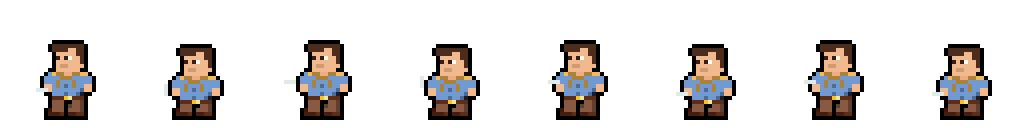
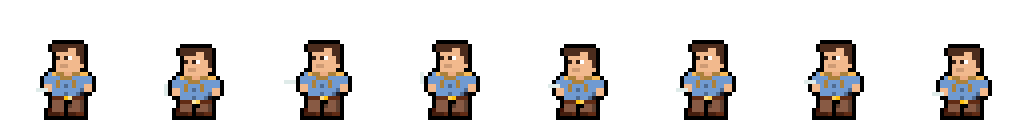
Mas Animaciones

diff --git a/src/ArenaCombate.h b/src/ArenaCombate.h
@@ -52,32 +52,3 @@ private:
 	ETSIDI::Sprite* fondo_arena = nullptr;
 };
 
-//Pensar en hacer metodos publicos privados o protegidos, sobretodo protegidos pueden venir bien para probar las funciones en un test unitario
-
-/*
-class testArenaCombate : public ArenaCombate
-
-Aquí irían los metodos protegidos en su clase base:
-Cómo se ponen las tareas protegidas:
-public:
-	using ArenaCombate::moverEnArena; // Hacer moverEnArena accesible para pruebas
-
-	o de otra forma una función que pueda llamar a la tarea protegida:
-	void tarea_Secundaria(){
-		tareaSecundariaprotegida();
-	}
-
-	y luego ya en el main
-
-	int main(){
-		testArenaCombate test;
-		test.tarea_Secundaria(); // Llamar a la función que a su vez llama a la tarea protegida
-		return 0;
-
-		//Sin embargo usando using
-
-		test.moverEnArena(pos, df, dc); // Llamar directamente a la tarea protegida
-		test.tareaSecundariaprotegida(); // Llamar directamente a la tarea protegida
-		
-		}
-*/

diff --git a/src/tipo_personaje.h b/src/tipo_personaje.h
@@ -176,7 +176,7 @@ public:
 
     float getOffsetX() const override { return 30.0f; }
 
-    int getTiempoAnimacion() const override { return 300; }
+    int getTiempoAnimacion() const override { return 350; }
 
 };
 
@@ -253,8 +253,13 @@ public:
     }
 
     int getRadioMovimiento() const override { return 5; }
-    std::string getNombreSprite() const override { return "FUENTECORRIENTE"; }
+    std::string getNombreSprite() const override { return "FuenteCorrienteAnimada"; }
     float getTamanoSprite() const override { return 70.0f; }
+    int getFramesIdle() const override { return 8; }
+
+    float getOffsetX() const override { return 30.0f; }
+
+    int getTiempoAnimacion() const override { return 350; }
 
 
 

diff --git a/src/Casilla.h b/src/Casilla.h
@@ -20,7 +20,7 @@ public:
     //   · Solo necesita consultar datos del personaje (radio, tipo de movimiento)
     //   · No debe modificarlo — const lo garantiza
     //   · & para no copiar el objeto entero 
-    bool puedeMoverseA(const Casilla& c_destino, const Personaje& p) const; //Por qué const Personaje &p?
+    bool puedeMoverseA(const Casilla& c_destino, const Personaje& p) const; 
     
 
     // ── Personaje que ocupa esta casilla ──────────────────────────────────
